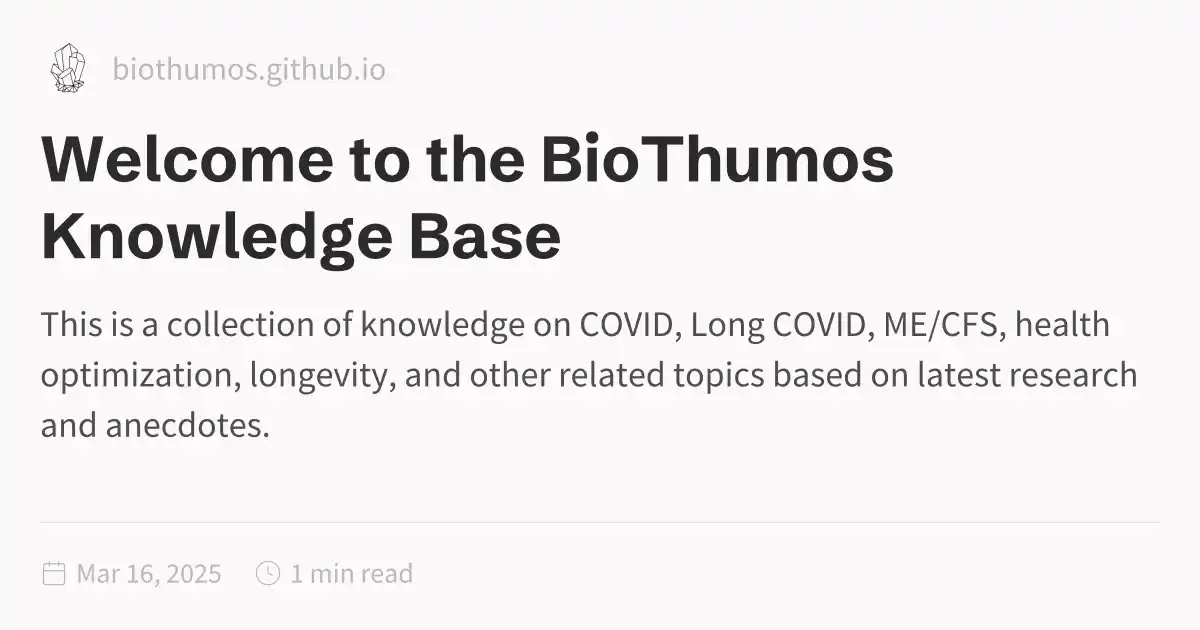
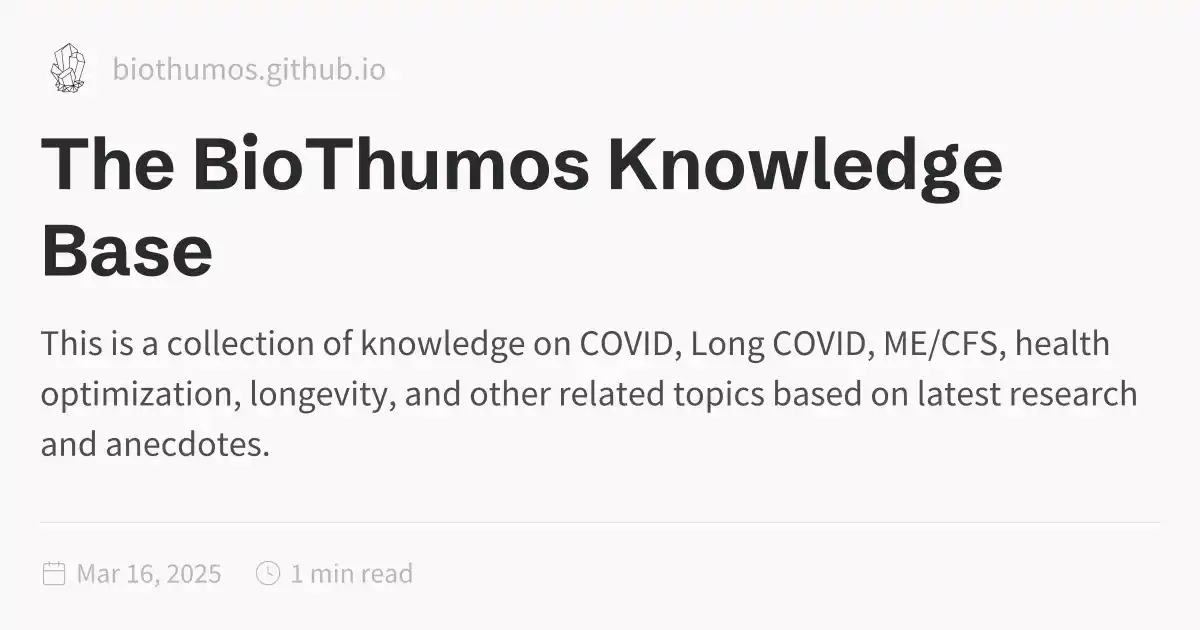
Title change

Changed region(s): [[0.0308, 0.4825, 0.9558, 0.7238], [0.0308, 0.2111, 0.8325, 0.3317], [0.0308, 0.3317, 0.4625, 0.4524]]

diff --git a/public/index.html b/public/index.html
@@ -1,5 +1,5 @@
 <!DOCTYPE html>
-<html lang="en"><head><title>Welcome to the BioThumos Knowledge Base</title><meta charset="utf-8"/><link rel="preconnect" href="https://fonts.googleapis.com"/><link rel="preconnect" href="https://fonts.gstatic.com"/><link rel="stylesheet" href="https://fonts.googleapis.com/css2?family=Source Sans Pro:ital,wght@0,400;0,600;1,400;1,600&amp;family=Schibsted Grotesk:wght@400;700&amp;family=IBM Plex Mono:wght@400;600&amp;display=swap"/><link rel="preconnect" href="https://cdnjs.cloudflare.com" crossorigin="anonymous"/><meta name="viewport" content="width=device-width, initial-scale=1.0"/><meta name="og:site_name" content="BioThumos"/><meta property="og:title" content="Welcome to the BioThumos Knowledge Base"/><meta property="og:type" content="website"/><meta name="twitter:card" content="summary_large_image"/><meta name="twitter:title" content="Welcome to the BioThumos Knowledge Base"/><meta name="twitter:description" content="This is a collection of knowledge on COVID, Long COVID, ME/CFS, health optimization, longevity, and other related topics based on latest research and anecdotes."/><meta property="og:description" content="This is a collection of knowledge on COVID, Long COVID, ME/CFS, health optimization, longevity, and other related topics based on latest research and anecdotes."/><meta property="og:image:alt" content="This is a collection of knowledge on COVID, Long COVID, ME/CFS, health optimization, longevity, and other related topics based on latest research and anecdotes."/><meta property="twitter:domain" content="biothumos.github.io"/><meta property="og:url" content="https://biothumos.github.io/index"/><meta property="twitter:url" content="https://biothumos.github.io/index"/><link rel="icon" href="./static/icon.png"/><meta name="description" content="This is a collection of knowledge on COVID, Long COVID, ME/CFS, health optimization, longevity, and other related topics based on latest research and anecdotes."/><meta name="generator" content="Quartz"/><link href="./index.css" rel="stylesheet" type="text/css" spa-preserve/><style>.expand-button {
+<html lang="en"><head><title>The BioThumos Knowledge Base</title><meta charset="utf-8"/><link rel="preconnect" href="https://fonts.googleapis.com"/><link rel="preconnect" href="https://fonts.gstatic.com"/><link rel="stylesheet" href="https://fonts.googleapis.com/css2?family=Source Sans Pro:ital,wght@0,400;0,600;1,400;1,600&amp;family=Schibsted Grotesk:wght@400;700&amp;family=IBM Plex Mono:wght@400;600&amp;display=swap"/><link rel="preconnect" href="https://cdnjs.cloudflare.com" crossorigin="anonymous"/><meta name="viewport" content="width=device-width, initial-scale=1.0"/><meta name="og:site_name" content="BioThumos"/><meta property="og:title" content="The BioThumos Knowledge Base"/><meta property="og:type" content="website"/><meta name="twitter:card" content="summary_large_image"/><meta name="twitter:title" content="The BioThumos Knowledge Base"/><meta name="twitter:description" content="This is a collection of knowledge on COVID, Long COVID, ME/CFS, health optimization, longevity, and other related topics based on latest research and anecdotes."/><meta property="og:description" content="This is a collection of knowledge on COVID, Long COVID, ME/CFS, health optimization, longevity, and other related topics based on latest research and anecdotes."/><meta property="og:image:alt" content="This is a collection of knowledge on COVID, Long COVID, ME/CFS, health optimization, longevity, and other related topics based on latest research and anecdotes."/><meta property="twitter:domain" content="biothumos.github.io"/><meta property="og:url" content="https://biothumos.github.io/index"/><meta property="twitter:url" content="https://biothumos.github.io/index"/><link rel="icon" href="./static/icon.png"/><meta name="description" content="This is a collection of knowledge on COVID, Long COVID, ME/CFS, health optimization, longevity, and other related topics based on latest research and anecdotes."/><meta name="generator" content="Quartz"/><link href="./index.css" rel="stylesheet" type="text/css" spa-preserve/><style>.expand-button {
   position: absolute;
   display: flex;
   float: right;
@@ -116,7 +116,7 @@ pre:hover > .expand-button {
   padding: 0 12px;
   font-size: 14px;
 }
[2 lines of base64/hex data omitted]
 <p>See knowledge entries in the left sidebar.</p>
 <h2 id="contributors">Contributors<a role="anchor" aria-hidden="true" tabindex="-1" data-no-popover="true" href="#contributors" class="internal"><svg width="18" height="18" viewBox="0 0 24 24" fill="none" stroke="currentColor" stroke-width="2" stroke-linecap="round" stroke-linejoin="round"><path d="M10 13a5 5 0 0 0 7.54.54l3-3a5 5 0 0 0-7.07-7.07l-1.72 1.71"></path><path d="M14 11a5 5 0 0 0-7.54-.54l-3 3a5 5 0 0 0 7.07 7.07l1.71-1.71"></path></svg></a></h2>
 <ul>

diff --git a/content/index.md b/content/index.md
@@ -1,5 +1,5 @@
 ---
-title: Welcome to the BioThumos Knowledge Base
+title: The BioThumos Knowledge Base
 ---
 
 This is a collection of knowledge on COVID, Long COVID, ME/CFS, health optimization, longevity, and other related topics based on latest research and anecdotes.
